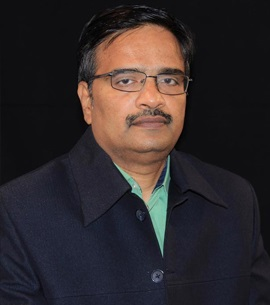
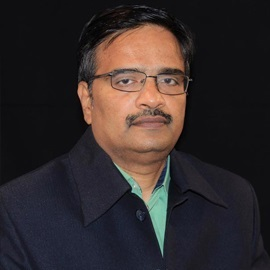
resize photo

diff --git a/our-team.html b/our-team.html
@@ -55,7 +55,7 @@
             <div class="row">
                 <div class="col-lg-6 col1">
                     <div class="media">
-                        <img src="images/team/mkMishra.jpg" class="align-self-center mr-3 img-fluid" alt="...">
+                        <img src="images/team/mkMishra.jpg" class="align-self-center mr-3 img-fluid" alt="..." height="200" width="150">
                         <div class="media-body">
                             <h5 class="mt-0">Dr. Mukti Kanta Mishra</h5>
                             <p>Dr Mishra holds an MBA and PhD from Victoria University, Melbourne. He is Co-founder and President of Centurion Universities and Gram Tarang institutions. He has promoted many companies, trusts and societies.</p>
@@ -65,7 +65,7 @@
 
                 <div class="col-lg-6 col1">
                     <div class="media">
-                        <img src="images/team/dnRao.jpg" class="align-self-center mr-3 img-fluid" alt="...">
+                        <img src="images/team/dnRao.jpg" class="align-self-center mr-3 img-fluid" alt="..."  height="200" width="150">
                         <div class="media-body">
                             <h5 class="mt-0">Mr D N Rao</h5>
                             <p>Mr Rao is a Civil Engineer from Osmania University and holds a PGDM from IIM Kolkatta. He is co-founder and Vice Chair of Centurion Universities and Gram Tarang institutions. He has a good understanding of technology and has promoted many technology based enterprises. </p>
@@ -75,7 +75,7 @@
 
                 <div class="col-lg-6 col1">
                     <div class="media">
-                        <img src="images/team/pSaini.jpg" class="align-self-center mr-3 img-fluid" alt="...">
+                        <img src="images/team/pSaini.jpg" class="align-self-center mr-3 img-fluid" alt="..." height="200" width="150">
                         <div class="media-body">
                             <h5 class="mt-0">Pramod Saini</h5>
                             <p>He has <span class="num">30+</span> years of corporate experience in IT Industry. He is an ex-CTO of Momentum Technologies. He is a post graduate from IIT Chennai. </p>
